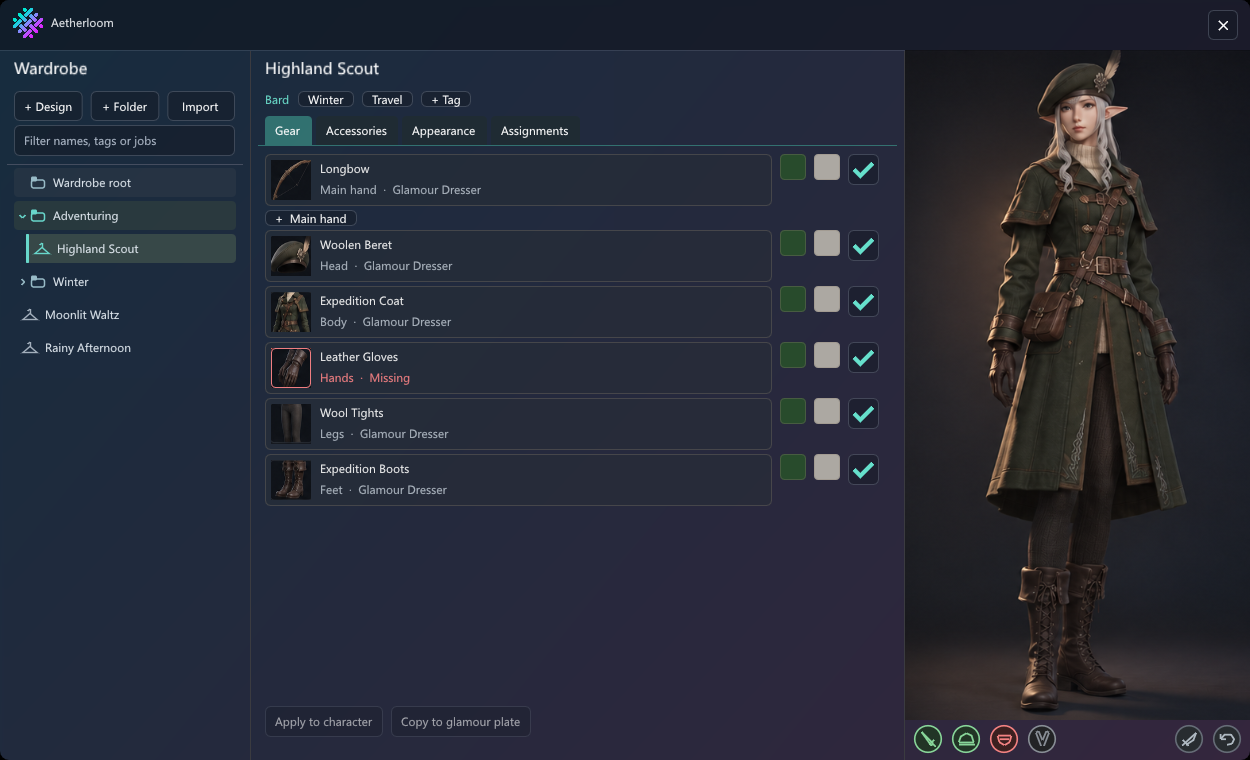
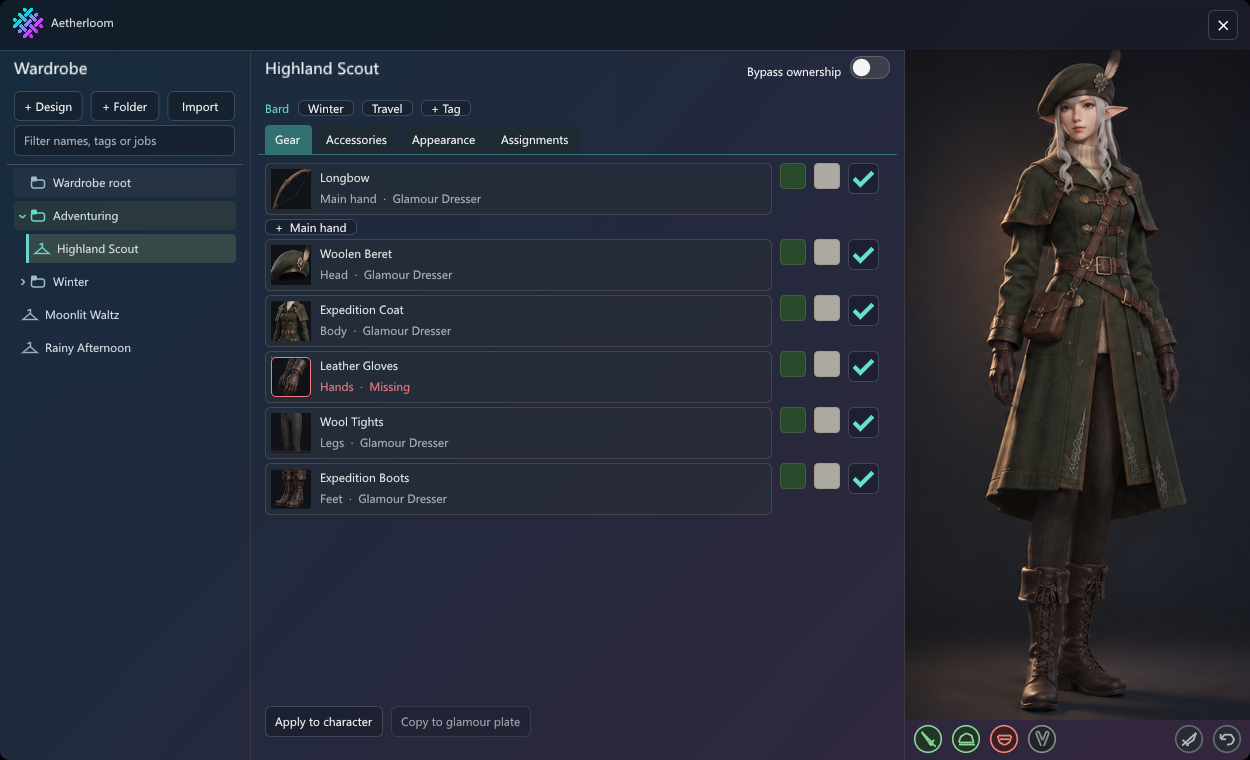
Render and exercise the wardrobe ownership switch

diff --git a/WardrobePreview/Program.cs b/WardrobePreview/Program.cs
@@ -57,6 +57,11 @@ internal sealed class RenderForm(string? scene,string? output):Form
             io.AddMousePosEvent(132,324);
             if(frame>=6)io.AddMouseButtonEvent(0,frame==6);
         }
+        if(scene=="ownership-bypass" && frame is 2 or 3 or 4)
+        {
+            io.AddMousePosEvent(870,67);
+            if(frame>=3)io.AddMouseButtonEvent(0,frame==3);
+        }
         if(scene=="folder-drag")
         {
             if(frame is 1 or 2)io.AddMousePosEvent(85,247);
@@ -76,6 +81,8 @@ internal sealed class RenderForm(string? scene,string? output):Form
             scene switch{"import"=>"import","tags"=>"add-tag","jobs"=>"Jobs","zones"=>"Zones","dye" or "dye-neutral"=>"Body-dye0","colors"=>"HairColor","items" or "clear-gear"=>"Body","earrings" or "clear-accessory"=>"Ears","hair"=>"Hairstyle","paint"=>"FacePaint",_=>null});
         layout.Draw(()=>BeginInvoke(Close));ImGui.End();ImGui.Render();surface.Paint(ClientSize.Width,ClientSize.Height);
         if(++frame==(scene is "design-clone" or "folder-drag" or "clear-gear" or "clear-accessory"?9:6) && output!=null){
+            if(scene=="ownership-bypass" && !fixture!.BypassOwnership)
+                throw new InvalidOperationException("Design title switch did not enable the ownership bypass.");
             if(scene=="design-clone" && (fixture!.Title!="Highland Scout (copy)" ||
                 !fixture.Designs.Any(d=>d.Name=="Highland Scout" && d.Id!=fixture.Selected) ||
                 fixture.Assigned("Jobs").Count!=0))

diff --git a/WardrobePreview/WardrobeFixture.cs b/WardrobePreview/WardrobeFixture.cs
@@ -95,6 +95,7 @@ internal sealed class WardrobeFixture:IWardrobe
         Selected=Guid.NewGuid();
         designs.Add((Selected,name,[..entry.Tags]));
         paths[Selected]=entry.Folder;
+        if(bypassed.Contains(source))bypassed.Add(Selected);
     }
     public bool RenameDesign(Guid id,string name)
     {
@@ -133,6 +134,9 @@ internal sealed class WardrobeFixture:IWardrobe
     public bool GroupEnabled(string group)=>enabled.Contains(group);
     public void SetGroupEnabled(string group,bool value){if(value)enabled.Add(group);else enabled.Remove(group);}
     public bool HasCharacter=>true;
+    private readonly HashSet<Guid> bypassed=[];
+    public bool BypassOwnership {get=>bypassed.Contains(Selected);set{if(value)bypassed.Add(Selected);else bypassed.Remove(Selected);}}
+    public void ApplyToCharacter(){}
     private readonly Dictionary<(string Type,uint Id),Guid> assigned=[];
     public IEnumerable<(uint Id,string Name)> AssignmentOptions(string type)=>type=="Jobs"?[(1,"Bard (BRD)"),(2,"Dragoon (DRG)"),(3,"Warrior (WAR)")]:[(1,"Coerthas Central Highlands"),(2,"Old Gridania"),(3,"The Lavender Beds")];
     public IReadOnlyCollection<uint> Assigned(string type)=>assigned.Where(p=>p.Key.Type==type && p.Value==Selected).Select(p=>p.Key.Id).ToArray();
